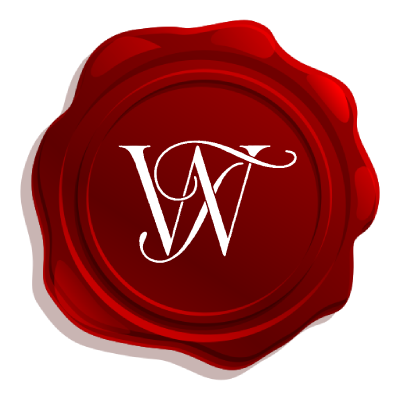
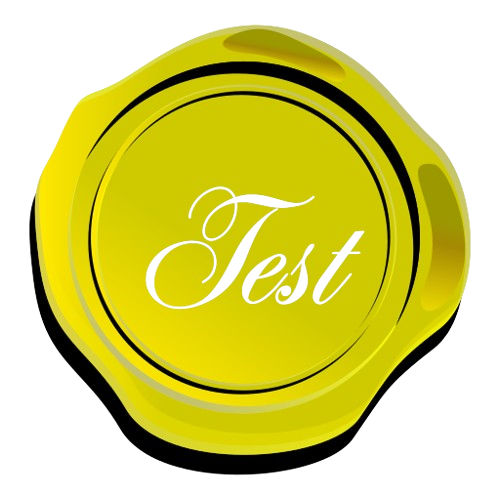
update first sample

diff --git a/src/app/app.component.html b/src/app/app.component.html
@@ -23,7 +23,7 @@
     <div class="letter">
           <div (click)="click1()" class="img1" id="page1">
             <div class="front">
-              <img src="../assets/1.JPG" alt="">
+              <img src="../assets/1.png" alt="">
               <svg width="70" height="70" viewBox="0 0 640 640" fill="none" xmlns="http://www.w3.org/2000/svg" class="hand hand2">
                 <g class="touchon">
                   <g id="touchon-body">
@@ -41,7 +41,7 @@
               </svg>
             </div>
             <div class="back">
-              <img src="../assets/2.JPG" alt="">
+              <img src="../assets/3.png" alt="">
               <svg width="70" height="70" viewBox="0 0 640 640" fill="none" xmlns="http://www.w3.org/2000/svg" class="hand hand3">
                 <g class="touchon">
                   <g id="touchon-body">
@@ -61,7 +61,7 @@
           </div>
           <div (click)="click2()" class="img2" id="page2">
             <div class="front">
-              <img src="../assets/3.JPG" alt="">
+              <img src="../assets/4.png" alt="">
               <svg width="70" height="70" viewBox="0 0 640 640" fill="none" xmlns="http://www.w3.org/2000/svg" class="hand hand2">
                 <g class="touchon">
                   <g id="touchon-body">
@@ -79,7 +79,7 @@
               </svg>
             </div>
             <div class="back">
-              <img src="../assets/4.JPG" alt="">
+              <img src="../assets/2.png" alt="">
               <svg width="70" height="70" viewBox="0 0 640 640" fill="none" xmlns="http://www.w3.org/2000/svg" class="hand hand3">
                 <g class="touchon">
                   <g id="touchon-body">
@@ -95,10 +95,6 @@
                   </g>
                 </g>
               </svg>
-              <div class="qr">
-                <p>Thet Paing Soe(*******7470)</p>
-                <img src="../assets/qr1.jpg" alt="qr">
-              </div>
             </div>
           </div>
   </div>

diff --git a/src/app/app.component.scss b/src/app/app.component.scss
@@ -23,10 +23,10 @@ img {
 }
 
 @keyframes slideshow {
-  0% { background-image: url('../assets/img1_1.JPG'); }
-  33% { background-image: url('../assets/img1_3.jpg'); }
-  66% { background-image: url('../assets/img1_2.jpg'); }
-  100% { background-image: url('../assets/img1_1.JPG'); }
+  0% { background-image: url('../assets/img1_1.jpg'); }
+  33% { background-image: url('../assets/img1_2.jpg'); }
+  66% { background-image: url('../assets/img1_3.jpg'); }
+  100% { background-image: url('../assets/img1_1.jpg'); }
 }
 
 #envelope {
